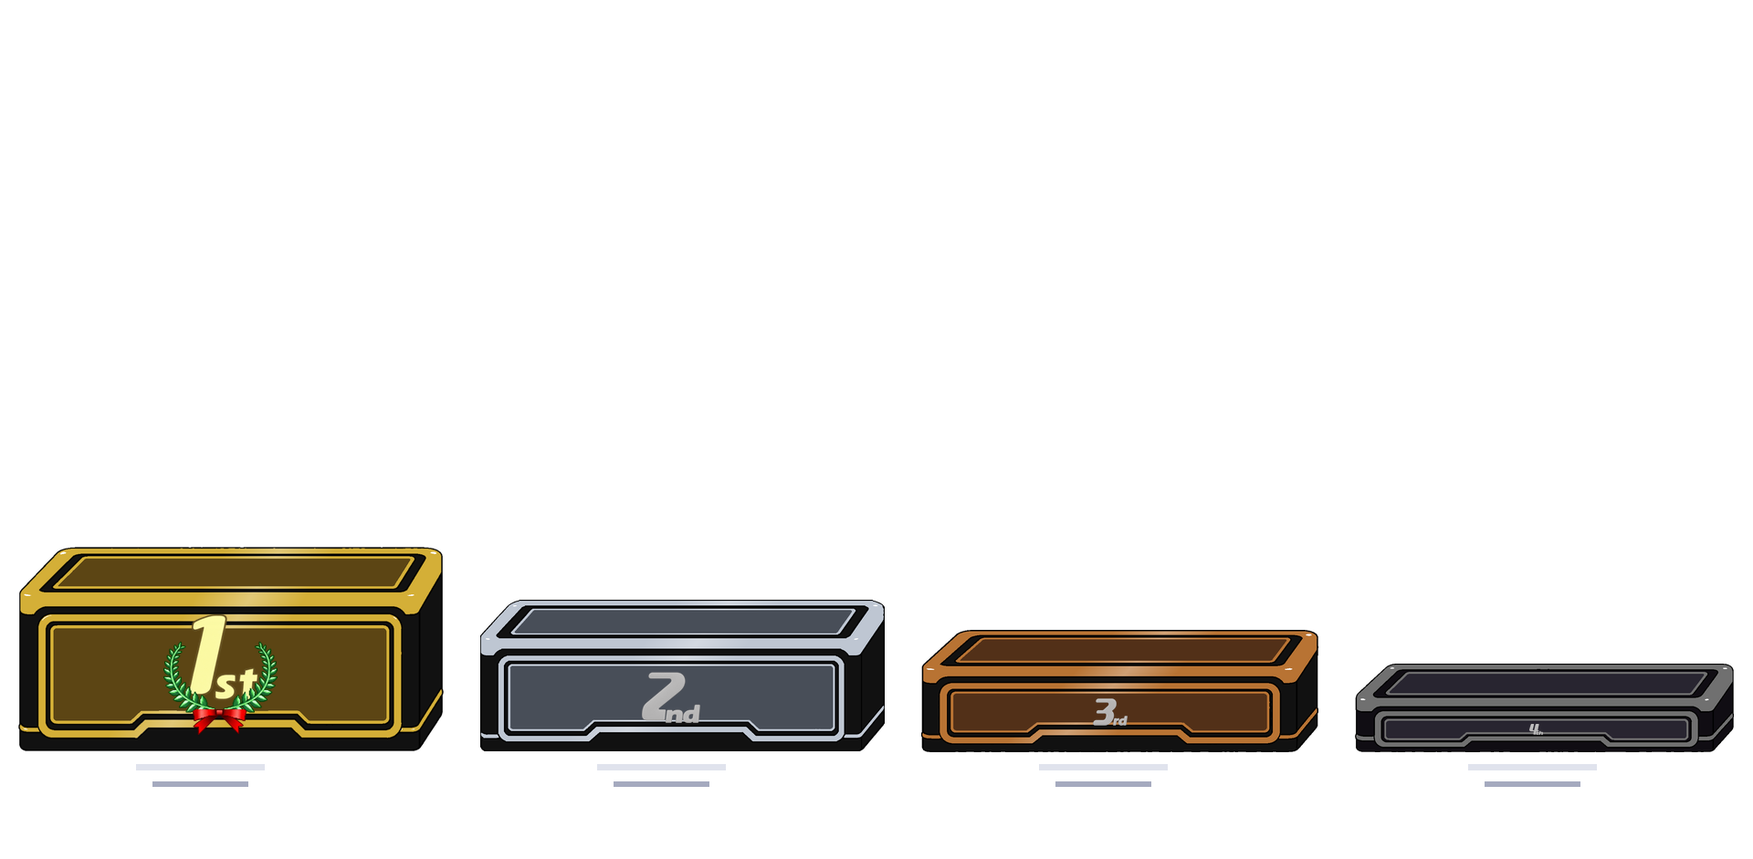
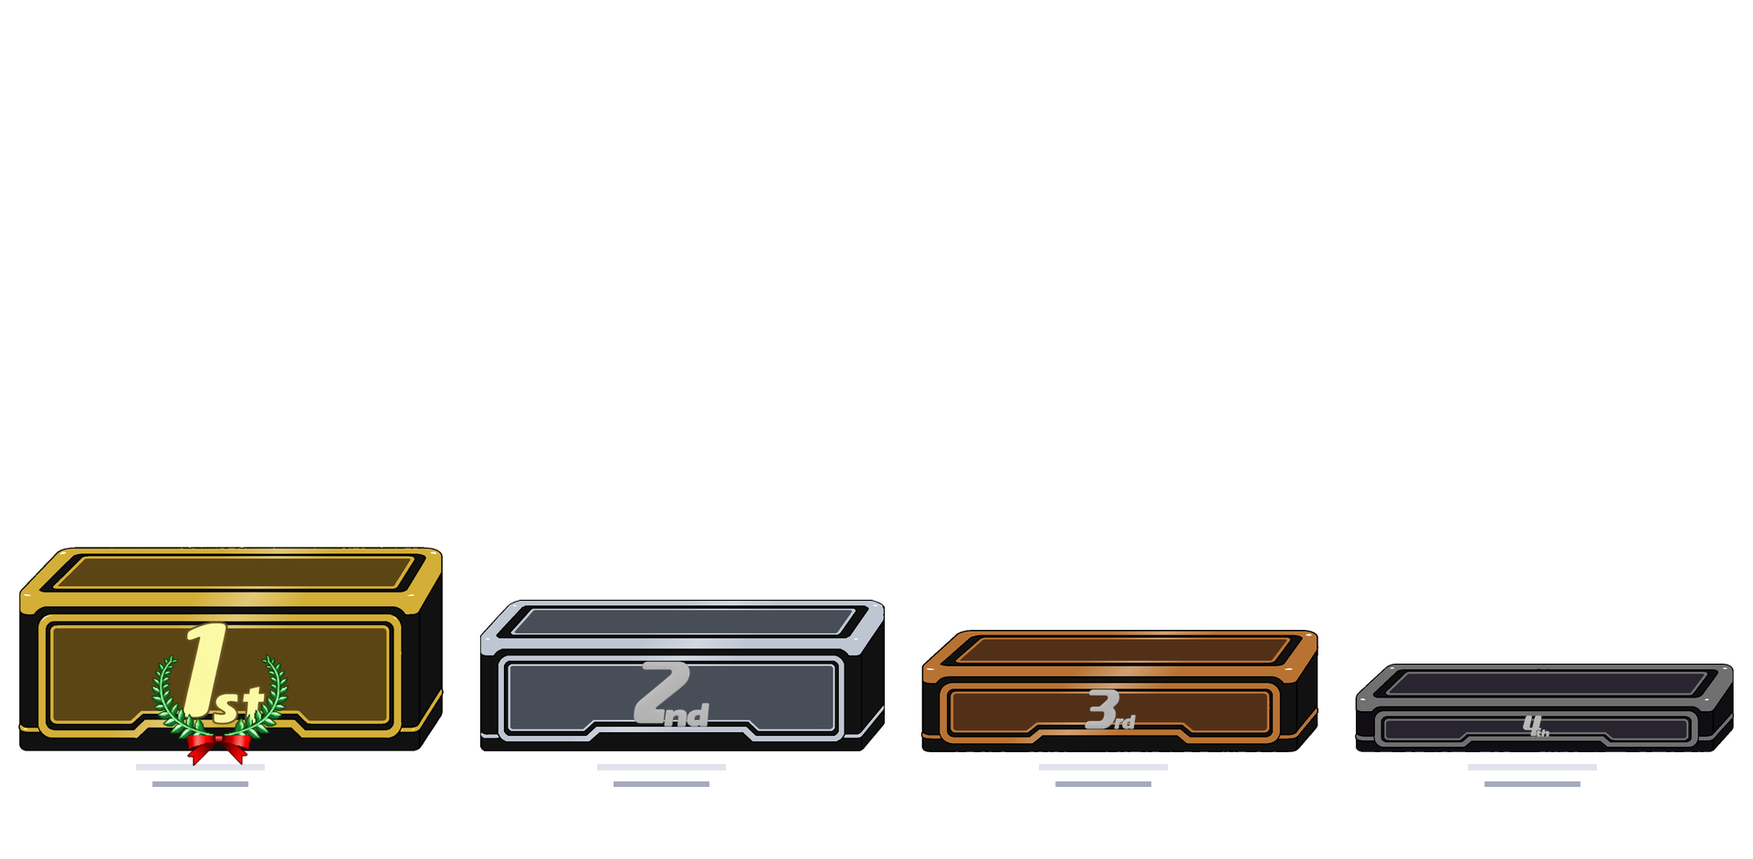
maximizing the size of the front face placement numbers as big as they can without going over the outline

diff --git a/test/generate/generate_clapping_four_podium_placement.py b/test/generate/generate_clapping_four_podium_placement.py
@@ -4,6 +4,7 @@ from __future__ import annotations
 
 from dataclasses import replace
 import json
+import math
 from pathlib import Path
 import sys
 
@@ -34,8 +35,6 @@ OUTPUT = PROJECT_ROOT / "test/clapping_portrait_previews/four_podium_placement"
 BACKGROUND_ID = "00_Battlefield_5000_5000_resaved.png"
 NAME_COLORS = ("#FB8B00FF", "#00CDC3FF", "#FF00FFFF", "#8D8D8DFF")
 PANEL_SIZE = (68, 104)
-PLACEMENT_NUMBER_SIZE_MULTIPLIER = 1.25
-SHARED_BADGE_MAX_SIZE = (20, 15)
 SHARED_BADGE_COPY_GAP = 12
 
 
@@ -59,21 +58,7 @@ class PlacementPreviewContentRenderer(LegacyPodiumContentRenderer):
         canvas.alpha_composite(layer)
 
 
-def enlarged_podium_tags(preferences):
-    """Increase the small Customizable second-through-fourth numbers for review."""
-
-    if preferences.selection.options.podium_style is not PodiumStyle.CUSTOMIZABLE:
-        return preferences.placement_tags
-    return tuple(
-        replace(tag, max_size=PixelSize(
-            round(tag.max_size.width * PLACEMENT_NUMBER_SIZE_MULTIPLIER),
-            round(tag.max_size.height * PLACEMENT_NUMBER_SIZE_MULTIPLIER),
-        )) if tag.asset_id in {"02nd.png", "03rd.png", "04th.png"} else tag
-        for tag in preferences.placement_tags
-    )
-
-
-def lower_result_geometry(preferences):
+def lower_result_geometry(preferences, number_height):
     """Anchor each block to its podium independently of the tiny rank overlay."""
 
     bodies = sorted(preferences.formatting_assets, key=lambda item: item.destination.left)
@@ -87,7 +72,8 @@ def lower_result_geometry(preferences):
         second_rect = [second_left, 830, second_left + PANEL_SIZE[0], 830 + PANEL_SIZE[1]]
         with Image.open(PROJECT_ROOT / "formatting_assets/placement_numbers" / asset_id) as source:
             art = source.copy()
-        art.thumbnail(SHARED_BADGE_MAX_SIZE, Image.Resampling.LANCZOS)
+        badge_max_size = (math.ceil(art.width * number_height / art.height), number_height)
+        art.thumbnail(badge_max_size, Image.Resampling.LANCZOS)
         center_x = (first_right + second_left) // 2
         group_height = 2 * art.height + SHARED_BADGE_COPY_GAP
         group_top = 830 + PANEL_SIZE[1] // 2 - group_height // 2
@@ -97,7 +83,7 @@ def lower_result_geometry(preferences):
                 slot_id=f"lower_pair_{pair_index + 1}_entrant_{first_index + member_index + 5}_placement_tag",
                 asset_id=asset_id,
                 anchor=PixelPoint(center_x, art_top + art.height // 2),
-                max_size=PixelSize(*SHARED_BADGE_MAX_SIZE), z_index=200 + first_index + member_index,
+                max_size=PixelSize(*badge_max_size), z_index=200 + first_index + member_index,
             ))
         for index, body, rect, alignment in (
             (first_index, first, first_rect, "right"),
@@ -164,6 +150,15 @@ def generate() -> None:
         subtitle="Singles Top 8 - Four Podiums", date="10/12/2026",
     )
     draft = {"schema_version": 1, "status": "placement_review", "styles": {}}
+    reference_selection = ModeSelection(CreationMode.PODIUM, ModeOptions(
+        event_format=TournamentFormat.SINGLES, entrant_count=8,
+        variant="four_podium", podium_style=PodiumStyle.CUSTOMIZABLE,
+    ))
+    reference_preferences = ModePreferenceRepository().load(reference_selection)
+    fourth = next(tag for tag in reference_preferences.placement_tags if tag.asset_id == "04th.png")
+    with Image.open(PROJECT_ROOT / "formatting_assets/placement_numbers/04th.png") as source:
+        source.thumbnail(fourth.max_size.as_tuple(), Image.Resampling.LANCZOS)
+        number_height = source.height
     for style in (PodiumStyle.LEGACY, PodiumStyle.CUSTOMIZABLE):
         selection = ModeSelection(CreationMode.PODIUM, ModeOptions(
             event_format=TournamentFormat.SINGLES, entrant_count=8,
@@ -183,11 +178,10 @@ def generate() -> None:
         )
         # This is an explicit offline geometry review, like the existing podium
         # preview scripts. Leave scaffold readiness and runtime preferences intact.
-        rows, shared_badges = lower_result_geometry(preferences)
+        rows, shared_badges = lower_result_geometry(preferences, number_height)
         review_preferences = replace(
             preferences,
             text_slots=tuple(placement for placement in preferences.text_slots if placement.field != "entrant.summary"),
-            placement_tags=enlarged_podium_tags(preferences),
         )
         formatted = FormattingAssetRenderer().draw(create_background(background), review_preferences, colors)
         preview = PlacementPreviewContentRenderer(font=PodiumFont.UBUNTU).draw(formatted, request, review_preferences)
@@ -209,11 +203,16 @@ def generate() -> None:
         preview.crop((0, 818, size.width, size.height)).resize(
             (size.width * 2, (size.height - 818) * 2), Image.Resampling.LANCZOS,
         ).convert("RGB").save(OUTPUT / f"{style.value}-lower-results-detail.png")
+        if style is PodiumStyle.CUSTOMIZABLE:
+            preview.crop((0, 650, size.width, 860)).convert("RGB").save(
+                OUTPUT / "customizable-front-number-detail.png",
+            )
         draft["styles"][style.value] = {
             "canvas_size": size.to_dict(), "lower_result_panels": rows,
             "shared_placement_tags": [badge.to_dict() for badge in shared_badges],
             "podium_placement_tags": [tag.to_dict() for tag in review_preferences.placement_tags],
             "shared_placement_tags_above_portraits": True,
+            "shared_placement_number_height": number_height,
             "attribution": {"position": [14, 18], "font_size": 18, "color": "#FFFFFF40"},
         }
         print(output)

diff --git a/test/podium_layout_previews/fit_four_podium_numbers.py b/test/podium_layout_previews/fit_four_podium_numbers.py
@@ -1,0 +1,124 @@
+"""Fit Customizable four-podium numerals inside the thick outer front outlines."""
+
+from collections import deque
+from dataclasses import replace
+import json
+import math
+from pathlib import Path
+import sys
+
+from PIL import Image
+
+ROOT = Path(__file__).resolve().parents[2]
+sys.path.insert(0, str(ROOT))
+
+from background_builder import PixelSize
+from creation_modes import PodiumStyle
+from mode_preferences import ModePreferences, PixelPoint
+
+PREFERENCES = ROOT / "preferences/podium/customizable/singles_top_8_four_podium.json"
+
+
+def _runs(rows):
+    runs = []
+    for row in rows:
+        if not runs or row != runs[-1][1] + 1:
+            runs.append([row, row])
+        else:
+            runs[-1][1] = row
+    return runs
+
+
+def front_panel_bounds(body, anchor_x):
+    with Image.open(ROOT / "formatting_assets/podium/customizable" / body.asset_id) as source:
+        image = source.convert("RGBA")
+    x = round((anchor_x - body.destination.left) / body.destination.width * image.width)
+    red, cyan = [], []
+    for y in range(image.height):
+        r, g, b, a = image.getpixel((x, y))
+        if a >= 128 and r > 200 and g < 30 and b < 30:
+            red.append(y)
+        if a >= 128 and r < 30 and g > 200 and b > 200:
+            cyan.append(y)
+    face = _runs(cyan)[-1]
+    before = [run for run in _runs(red) if run[1] < face[0]]
+    after = [run for run in _runs(red) if run[0] > face[1]]
+    # The nearest red bands are the inner stripes. The next ones are outer rims.
+    # Use the INNER edges of the thick outer rims, leaving the rims uncovered.
+    top, bottom = before[-2][1] + 1, after[1][0]
+    return (
+        body.destination.top + round(top * body.destination.height / image.height),
+        body.destination.top + round(bottom * body.destination.height / image.height),
+    )
+
+
+def first_numeral_vertical_bounds(image):
+    """Find the largest gold component (the 1), excluding suffix, wreath, and bow."""
+
+    width, height = image.size
+    mask = bytearray(1 if a >= 128 and r >= g * .95 and g >= b * 1.25 and r >= 80 else 0
+                     for r, g, b, a in image.convert("RGBA").getdata())
+    best = (0, 0, 0)
+    for index in range(len(mask)):
+        if not mask[index]:
+            continue
+        mask[index] = 0
+        queue = deque([index])
+        count, top, bottom = 0, height, 0
+        while queue:
+            current = queue.popleft()
+            x, y = current % width, current // width
+            count += 1
+            top, bottom = min(top, y), max(bottom, y + 1)
+            for neighbor in (current - width if y else -1,
+                             current + width if y + 1 < height else -1,
+                             current - 1 if x else -1,
+                             current + 1 if x + 1 < width else -1):
+                if neighbor >= 0 and mask[neighbor]:
+                    mask[neighbor] = 0
+                    queue.append(neighbor)
+        if count > best[0]:
+            best = count, top, bottom
+    if not best[0]:
+        raise ValueError("First-place artwork must contain a gold numeral")
+    # Include the numeral's dark outline beyond the gold fill.
+    return max(0, best[1] - 8), min(height, best[2] + 8)
+
+
+def fit_tags(preferences):
+    if preferences.selection.options.podium_style is not PodiumStyle.CUSTOMIZABLE:
+        raise ValueError("Outer-front calibration requires Customizable podium masks")
+    if len(preferences.formatting_assets) != 4 or len(preferences.placement_tags) != 4:
+        raise ValueError("This review calibrates exactly four podium numbers")
+    bodies = sorted(preferences.formatting_assets, key=lambda body: body.destination.left)
+    fitted, measurements = [], {}
+    for body, tag in zip(bodies, preferences.placement_tags):
+        top, bottom = front_panel_bounds(body, tag.anchor.x)
+        with Image.open(ROOT / "formatting_assets/placement_numbers" / tag.asset_id) as source:
+            source = source.convert("RGBA")
+        if tag.asset_id == "01st.png":
+            glyph_top, glyph_bottom = first_numeral_vertical_bounds(source)
+        else:
+            # Include faint antialiased edges so no part of the ordinal crosses the rim.
+            glyph_top, glyph_bottom = 0, source.height
+        height = math.floor((bottom - top) * source.height / (glyph_bottom - glyph_top))
+        width = math.ceil(source.width * height / source.height)
+        layer = source.copy()
+        layer.thumbnail((width, height), Image.Resampling.LANCZOS)
+        layer_top = bottom - round(glyph_bottom * layer.height / source.height)
+        fitted.append(replace(tag, anchor=PixelPoint(tag.anchor.x, layer_top + layer.height // 2),
+                              max_size=PixelSize(width, height)))
+        measurements[tag.slot_id] = {
+            "front_panel_top": top, "front_panel_bottom": bottom,
+            "numeral_top": layer_top + round(glyph_top * layer.height / source.height),
+            "numeral_bottom": bottom, "artwork_bottom": layer_top + layer.height,
+        }
+    return tuple(fitted), measurements
+
+
+if __name__ == "__main__":
+    raw = json.loads(PREFERENCES.read_text(encoding="utf-8"))
+    tags, measurements = fit_tags(ModePreferences.from_dict(raw))
+    raw["placement_tags"] = [tag.to_dict() for tag in tags]
+    PREFERENCES.write_text(json.dumps(raw, indent=2) + "\n", encoding="utf-8")
+    print(json.dumps(measurements, indent=2))

diff --git a/test/four_podium_number_fit_test.py b/test/four_podium_number_fit_test.py
@@ -1,0 +1,67 @@
+"""Front-panel number fitting, crest overhang, and preference serialization."""
+
+from pathlib import Path
+import sys
+import unittest
+from dataclasses import replace
+
+from PIL import Image
+
+ROOT = Path(__file__).resolve().parents[1]
+sys.path.insert(0, str(ROOT))
+sys.path.insert(0, str(ROOT / "test/podium_layout_previews"))
+
+from creation_modes import CreationMode, ModeOptions, ModeSelection, PodiumStyle
+from mode_preferences import ModePreferenceRepository, PlacementTagPlacement
+from models import TournamentFormat
+from preview_layers import render_podium_layer
+from formatting_assets import draw_placement_tags
+from fit_four_podium_numbers import fit_tags
+
+
+class FourPodiumNumberFitTests(unittest.TestCase):
+    def setUp(self):
+        self.selection = ModeSelection(CreationMode.PODIUM, ModeOptions(
+            event_format=TournamentFormat.SINGLES, entrant_count=8,
+            variant="four_podium", podium_style=PodiumStyle.CUSTOMIZABLE,
+        ))
+        self.preferences = ModePreferenceRepository().load(self.selection)
+
+    def test_number_edges_fit_inside_the_thick_outer_front_outline(self):
+        tags, measured = fit_tags(self.preferences)
+        expected_spans = [(681, 789), (724, 796), (755, 799), (784, 807)]
+        for tag, expected in zip(tags, expected_spans):
+            row = measured[tag.slot_id]
+            self.assertEqual((row['front_panel_top'], row['front_panel_bottom']), expected)
+            self.assertGreaterEqual(row['numeral_top'], expected[0])
+            self.assertEqual(row['numeral_bottom'], expected[1])
+
+    def test_crest_ribbon_hangs_below_podium_without_scaling_to_full_crest_height(self):
+        tags, measured = fit_tags(self.preferences)
+        first = measured[tags[0].slot_id]
+        self.assertGreater(first['artwork_bottom'], self.preferences.formatting_assets[0].destination.bottom)
+        self.assertEqual(first['numeral_bottom'], first['front_panel_bottom'])
+
+    def test_saved_placements_match_fit_and_round_trip(self):
+        tags, _ = fit_tags(self.preferences)
+        self.assertEqual(tags, self.preferences.placement_tags)
+        for tag in tags:
+            self.assertEqual(PlacementTagPlacement.from_dict(tag.to_dict()), tag)
+        self.assertFalse(self.preferences.ready)
+
+    def test_browser_preview_guide_does_not_cover_the_hanging_ribbon(self):
+        layer = render_podium_layer(PodiumStyle.CUSTOMIZABLE, "top_8_four_podiums", "smash_player_colors")
+        crest = Image.new('RGBA', layer.size, '#00000000')
+        draw_placement_tags(crest, replace(self.preferences, placement_tags=self.preferences.placement_tags[:1]))
+        visible_bow_pixels = 0
+        for y in range(self.preferences.formatting_assets[0].destination.bottom, 860):
+            for x in range(150, 330):
+                red, green, blue, alpha = crest.getpixel((x, y))
+                if alpha == 255 and red > green * 2 and red > blue * 2:
+                    visible_bow_pixels += 1
+                    self.assertEqual(layer.getpixel((x, y)), crest.getpixel((x, y)))
+        self.assertGreater(visible_bow_pixels, 0)
+
+
+if __name__ == '__main__':
+    unittest.main()

diff --git a/preview_layers.py b/preview_layers.py
@@ -2,6 +2,7 @@
 
 from __future__ import annotations
 
+from dataclasses import replace
 from itertools import permutations
 from pathlib import Path
 
@@ -11,7 +12,7 @@ from background_builder import BackgroundRequest, PixelSize
 from creation import CreationRequest, TextSettings
 from creation_modes import CreationMode, ModeOptions, ModeSelection, PodiumStyle
 from DrawPodium import PodiumFont, PodiumMode
-from formatting_assets import FormattingAssetRenderer
+from formatting_assets import FormattingAssetRenderer, draw_placement_tags
 from geometric_content_renderer import (
     EyesContentRenderer,
     SquaresContentRenderer,
@@ -277,7 +278,8 @@ def render_podium_layer(style: PodiumStyle, layout_id: str, color_id: str | None
     if style is PodiumStyle.CUSTOMIZABLE:
         asset_count = 4 if variant == "four_podium" else entrant_count
         colors = _customizable_colors(color_id or "smash_player_colors", asset_count)
-    result = FormattingAssetRenderer().draw(canvas, preferences, colors)
+    formatting_preferences = replace(preferences, placement_tags=()) if variant == "four_podium" else preferences
+    result = FormattingAssetRenderer().draw(canvas, formatting_preferences, colors)
     if variant == "four_podium":
         draw = ImageDraw.Draw(result)
         for placement in preferences.text_slots:
@@ -287,6 +289,7 @@ def render_podium_layer(style: PodiumStyle, layout_id: str, color_id: str | None
             half_width = min(70, placement.max_width // 2)
             draw.line((x - half_width, y - 8, x + half_width, y - 8), fill="#D8DCE8CC", width=7)
             draw.line((x - half_width + 18, y + 10, x + half_width - 18, y + 10), fill="#8E95AFCC", width=6)
+        draw_placement_tags(result, preferences)
     return result
 
 

diff --git a/AGENTS.md b/AGENTS.md
@@ -71,7 +71,7 @@
 - Vertically center singles character names and doubles team names within their reserved two-line area below standard podiums: two-line labels keep the calibrated first-row anchor, while one-line labels shift down by half a line. Do not apply this rule to the separately calibrated Top 8 four-podium layout.
 - The reviewed legacy Top 8 layout expands each podium body 15 pixels horizontally on both sides of its extracted historical bounds. Each podium after first shifts a further 5 pixels rightward, reducing overlap while allowing the far-right podium to extend 29 pixels beyond the canvas; its character, placement-tag, character-name, and seed anchors use the same per-rank offset. Portrait anchors sit 8 pixels below their original legacy positions. Seed anchors track the enlarged front-face right edge with an additional 10-pixel offset and use Pillow's `ra` anchor so the `s` suffix stays at that edge while the label grows leftward.
 - Legacy four-podium layouts distribute their bodies with 13, 13, and 12 pixels of overlap. The second-place body and all associated content shift 16 pixels right from the extracted legacy coordinates; third-place and its content shift 17 pixels right.
-- Top 8 with four podiums will add a bordered clapping portrait beside each lower-result name, using that entrant's first selected character and costume. The first 5th and first 7th entrants place their portraits on the right of their text blocks with right-aligned text extending left; the second 5th and second 7th keep portraits on the left with left-aligned text extending right. Center two vertically stacked small copies each of canonical 05th.png and 07th.png placement artwork between the corresponding pairs of portraits, using the reviewed Customizable fourth-place numeral size (20x15px after its 25% increase). Do not reserve space for these numbers or move text and portraits because of their size; draw them over the portraits when necessary. Omit duplicate ranks from the individual text rows. The portrait backing uses the same RGBA color as the name. Keep its per-character crop calibration independent from static portrait scales and fixed throughout the animation; the initial calibration is reviewed through demo sheets before template integration. Ice Climbers portraits layer the rear member behind the front member (Nana behind Popo in the default costume), using synchronized cutouts from the same costume GIF and preserving costume-specific member order. Match the reference with Nana's crown just below Popo's and roughly half her head deliberately beyond the right border, showing her left eye inside the frame.
+- Top 8 with four podiums will add a bordered clapping portrait beside each lower-result name, using that entrant's first selected character and costume. The first 5th and first 7th entrants place their portraits on the right of their text blocks with right-aligned text extending left; the second 5th and second 7th keep portraits on the left with left-aligned text extending right. Center two vertically stacked small copies each of canonical 05th.png and 07th.png placement artwork between the corresponding pairs of portraits, matching the final Customizable fourth-place numeral height while preserving each ordinal artwork's aspect ratio. Do not reserve space for these numbers or move text and portraits because of their size; draw them over the portraits when necessary. Omit duplicate ranks from the individual text rows. The portrait backing uses the same RGBA color as the name. Keep its per-character crop calibration independent from static portrait scales and fixed throughout the animation; the initial calibration is reviewed through demo sheets before template integration. Ice Climbers portraits layer the rear member behind the front member (Nana behind Popo in the default costume), using synchronized cutouts from the same costume GIF and preserving costume-specific member order. Match the reference with Nana's crown just below Popo's and roughly half her head deliberately beyond the right border, showing her left eye inside the frame.
 - Legacy Top 8's pink seventh-place body shares the gray seventh-place body's 641px top and 833px bottom, removing its former four-pixel excess height. Its portrait anchor is 670px and its placement-art center is 738px to follow the adjusted body.
 - Draw podium formatting assets from left to right by their destination position so the right-facing box edges overlap correctly. Keep entrant character/content draw order independent, with lower placements drawn over higher placements where their layout requires it.
 - Store podium placement-number art in `formatting_assets/placement_numbers/` using zero-padded ordinal filenames such as `01st.png`, `02nd.png`, and `25th.png`.
@@ -96,6 +96,7 @@
 - Flat customizable podiums never display placement-number art.
 - Customizable Top 8 displays placement-number art only for first through third; fourth, both tied fifths, and both flat tied sevenths omit it. Customizable gray placement-number art is deliberately much smaller than the first-place crest.
 - Size customizable placement-number art per layout and podium height rather than sharing bounds across formats. Use as much of the semantic front face as practical while leaving clearance above the bottom trim; very short faces, especially fourth place in four-podium layouts, require correspondingly tiny art.
+- Customizable Singles Top 8 with four podiums fits main placement numerals inside the front panel defined by the thick outer outline, covering the inner stripes but leaving the outer outline visible. Fit first place using the numeral 1 itself, align its bottom to the inside of the bottom outer outline, and let the wreath ribbon hang below the podium. Fit second through fourth between the inner edges of the thick outer outline; the lower paired fifths and sevenths match fourth's final numeral height. Browser preview guide lines stay behind the hanging crest.
 - Customizable first-place art keeps its taller bounds so the ribbon can hang below the number. Customizable portrait anchors follow the bottom edge of each semantic top face; text is projected horizontally into the corresponding customizable podium bounds. Seed labels are vertically fitted inside each semantic front face immediately above its lower trim, shrinking on the shortest faces when necessary.
 - In customizable doubles Top 4, the second member of the first-place team has an additional 20-pixel rightward anchor offset after projection.
 - Customizable podiums require a main color and accept optional face and base colors plus a strict `metallic` boolean. Expose that boolean as a `Metallic` checkbox alongside each custom podium palette's main RGBA color selector.

diff --git a/test/clapping_portrait_previews/four_podium_placement/README.md b/test/clapping_portrait_previews/four_podium_placement/README.md
@@ -12,10 +12,14 @@ at y=830. The first 5th and first 7th entrants have portraits on the right of
 their text blocks, with right-aligned stock/seed rows, sponsors, and names to
 their left. The second 5th and second 7th keep their original portrait and text
 positions. Two copies each of canonical `05th.png` and `07th.png` artwork sit
-in a vertical stack with a 12-pixel gap between the corresponding pairs of portraits. Their 20-by-15-pixel
-maximum bounds match the enlarged Customizable fourth-place numeral. The
-Customizable second-, third-, and fourth-place numbers are increased by 25%
-for this review. Individual summary rank labels are omitted. The numbers
+in a vertical stack with a 12-pixel gap between the corresponding pairs of portraits.
+Their height is taken directly from the final Customizable fourth-place artwork;
+each ordinal keeps its own aspect ratio. The main four numbers fill the outer
+panel inside the thick outer outline, covering the inner stripes while leaving
+the outer border visible. First place fits the numeral
+1 itself to that span, letting its wreath ribbon hang below the podium.
+These four number positions/sizes are saved in the Customizable Top 8
+four-podium preference file. Individual summary rank labels are omitted. The numbers
 do not reserve space or move the portraits or text and are composited over the
 portraits when they overlap. The alternating blocks are anchored directly to
 their podium edges. The portrait uses the entrant's first selected character/costume,
